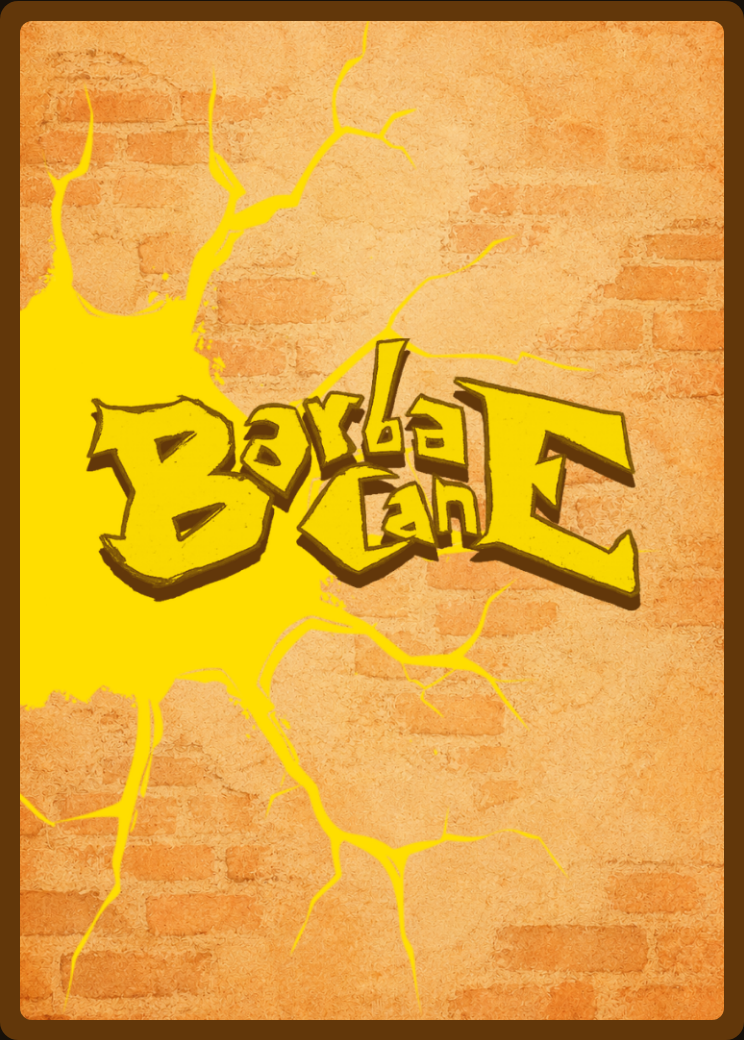
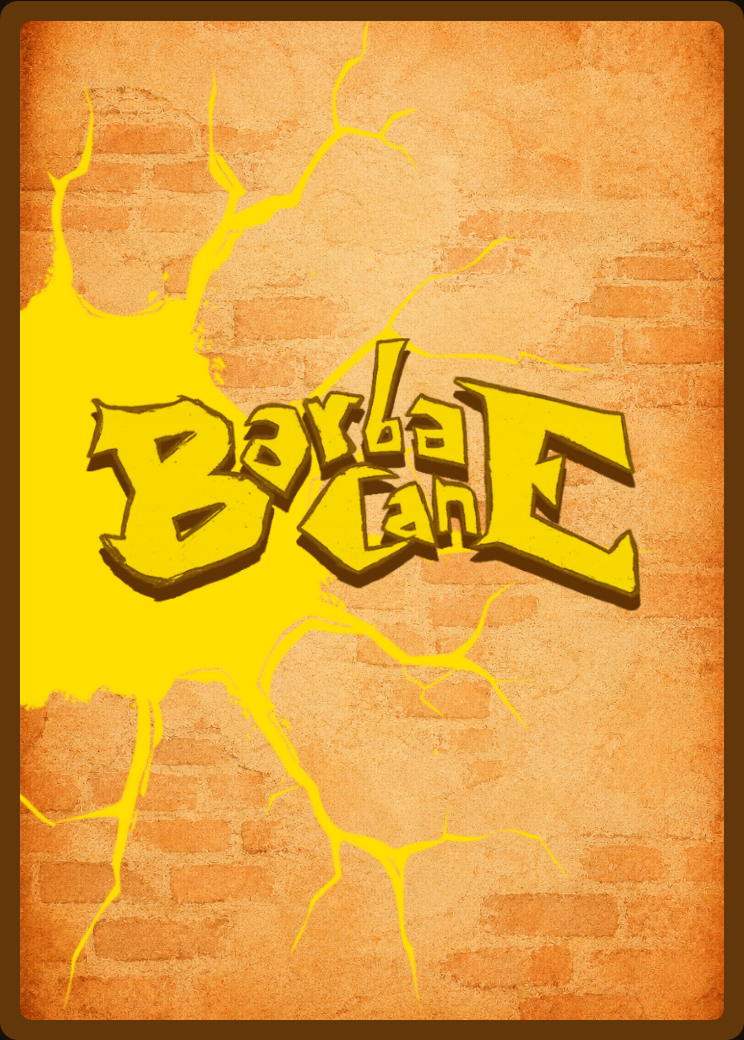
New version for the back of the cards

diff --git a/card_factory/assets/card.html b/card_factory/assets/card.html
@@ -241,7 +241,7 @@ function renderCard(card, names){
   if(names) NAMES=names;
   const stage=document.getElementById('stage');
   if(card.type==='back'){
-    stage.innerHTML=`<div class="card" id="card" style="background:#62370a"><div class="inner" style="background:url(back.png) center/cover"></div></div>`;
+    stage.innerHTML=`<div class="card" id="card" style="background:#62370a"><div class="inner" style="background:url(retro_logo.png) center/cover, url(sfondo.png) center/cover"></div></div>`;
     return stage.querySelector('#card');
   }
   const frame = card.type==='spell' ? '#123a52' : (card.type==='building' ? '#245e33' : '#7a0000');

diff --git a/card_factory/README.md b/card_factory/README.md
@@ -9,7 +9,7 @@ output/         ← PNG carte finali → usati dal frontend di Barbacane
 lib/            ← libreria condivisa: cards_data.py, image_ops.py, render.py
 assets/
   card.html     ← il renderer: unica fonte di verità per la grafica delle carte
-  sfondo.png, esagono*.png, stella*.png, spade.png, back.png  ← texture/icone usate da card.html
+  sfondo.png, esagono*.png, stella*.png, spade.png, retro_logo.png  ← texture/icone usate da card.html
 ```
 
 Gli script numerati (`1_prepare_images.py`, `2_generate_cards.py`, `3_make_print_pdf.py`) sono CLI sottili: la logica di image processing e rendering vive in `lib/`.
